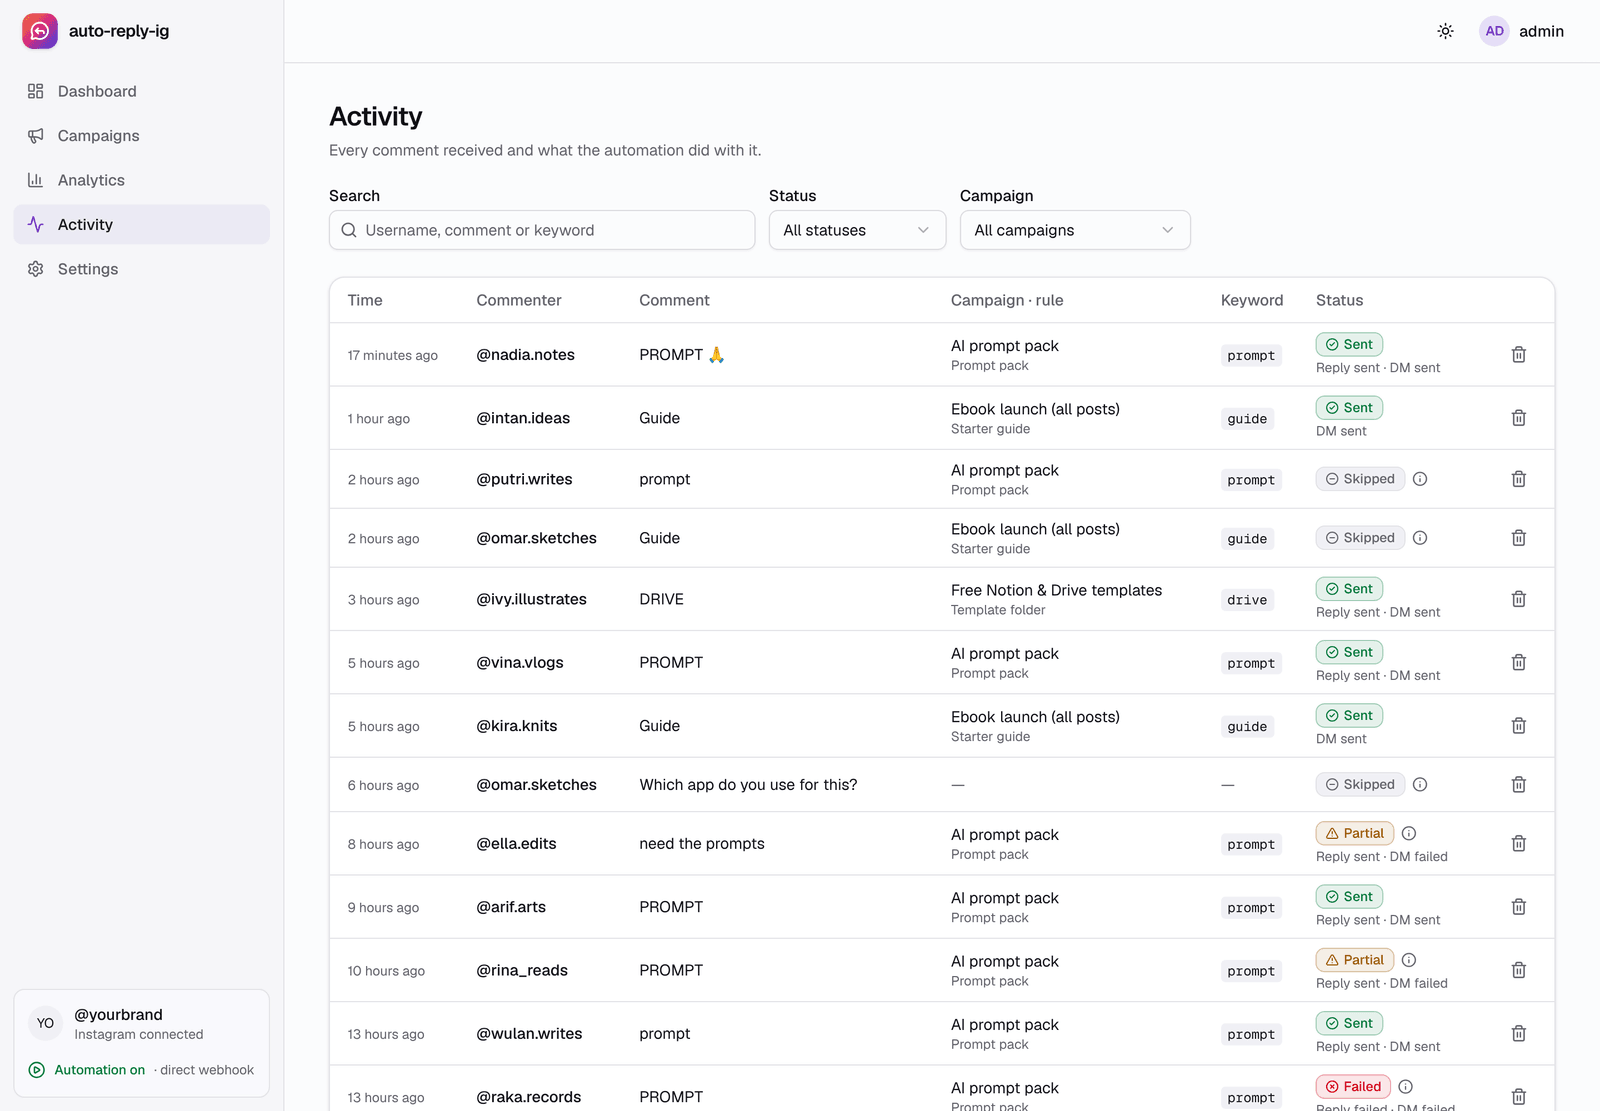
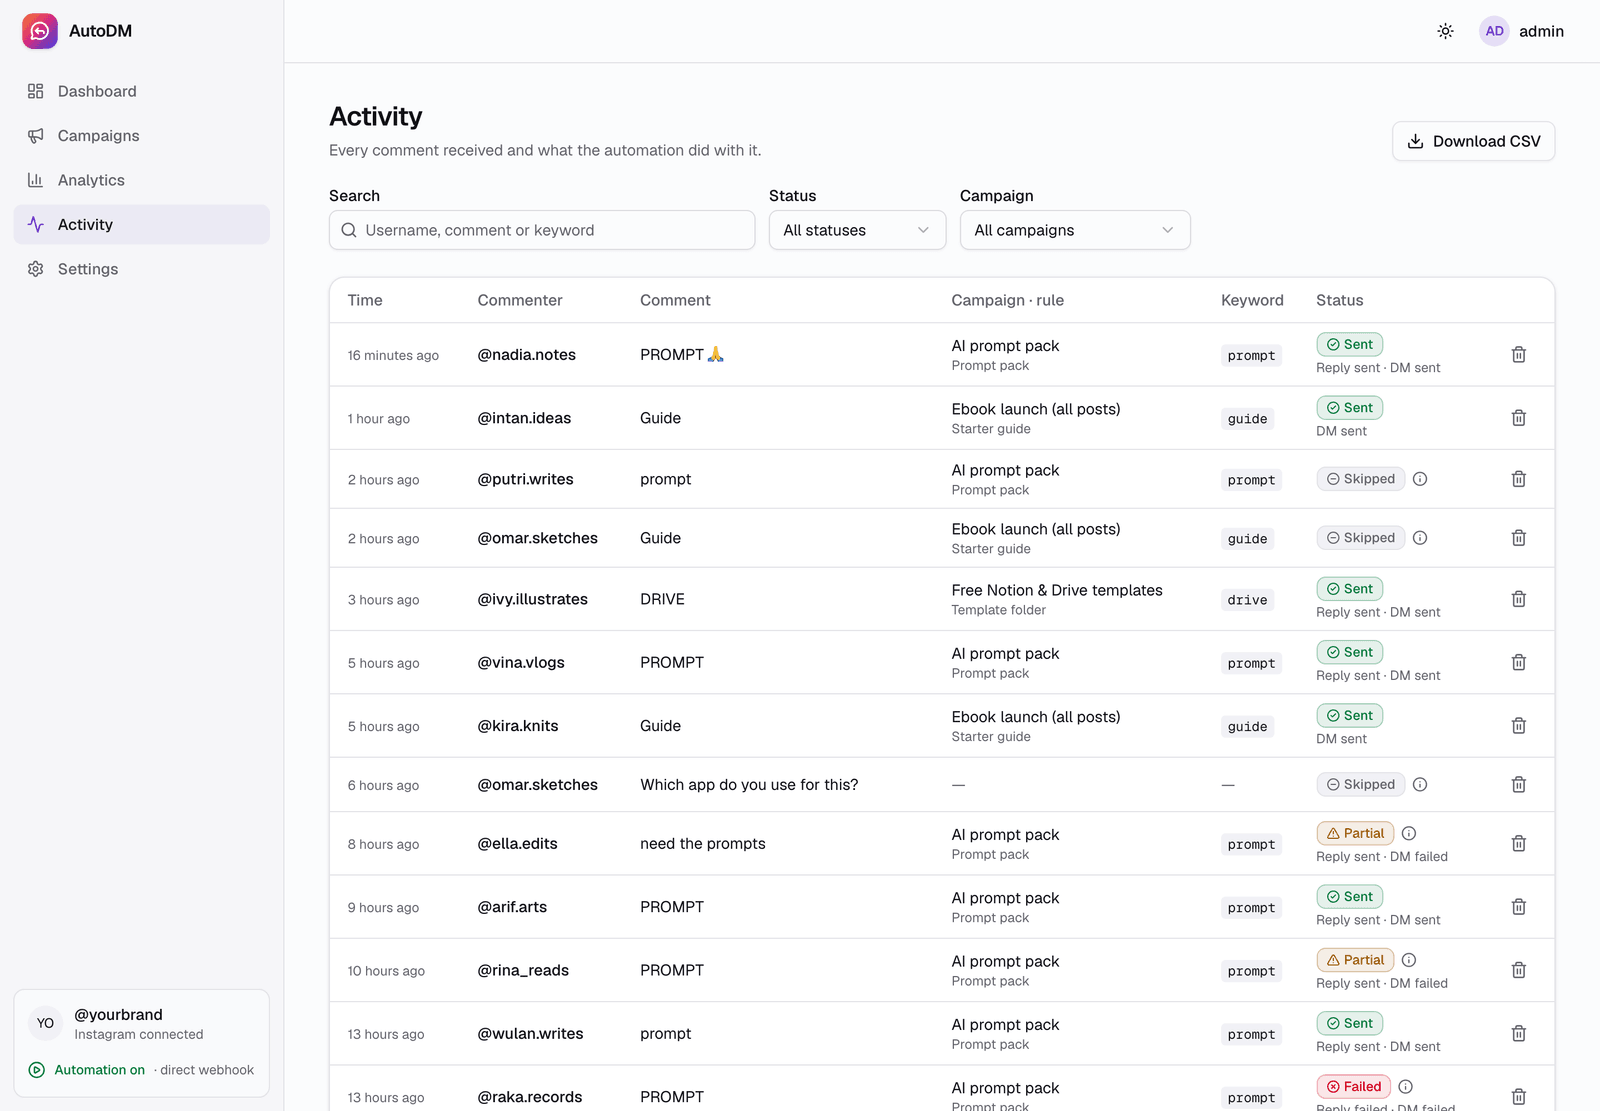
docs: retake README screenshots with the AutoDM name (#82)
* docs: retake README screenshots with the AutoDM name

Add scripts/demo/screenshots.ts (pnpm demo:screenshots, Playwright) so the
screenshots can be regenerated with one command.

* style: format the screenshot script with prettier

---------

diff --git a/scripts/demo/screenshots.ts b/scripts/demo/screenshots.ts
@@ -1,0 +1,135 @@
+/**
+ * Retakes the README screenshots in docs/assets/screenshots/ from a running app that uses the demo
+ * database (see "Demo data for screenshots" in docs/development.md):
+ *
+ *   SCREENSHOT_BASE_URL=http://localhost:3000 pnpm demo:screenshots
+ *
+ * Env: SCREENSHOT_BASE_URL (default http://localhost:3000), DEMO_PASSWORD (default demo-password-2026).
+ * Pages are captured at 1440px wide (390px for mobile) with deviceScaleFactor 2, light theme except
+ * dashboard-dark, then downscaled to 1600px wide (780px for mobile) and saved as palette PNG.
+ */
+import { mkdirSync, writeFileSync } from "node:fs";
+import { createRequire } from "node:module";
+import { dirname, join } from "node:path";
+import { fileURLToPath } from "node:url";
+import { chromium, type Page } from "playwright";
+
+/** The small slice of sharp's API this script uses (sharp ships with Next, see scripts/brand/banner.tsx). */
+type SharpPipeline = {
+  resize(width: number): SharpPipeline;
+  png(options: {
+    compressionLevel: number;
+    palette?: boolean;
+    quality?: number;
+    dither?: number;
+  }): SharpPipeline;
+  toBuffer(): Promise<Buffer>;
+};
+type SharpFactory = (input: Buffer) => SharpPipeline;
+
+const ROOT = join(dirname(fileURLToPath(import.meta.url)), "..", "..");
+const OUT = join(ROOT, "docs", "assets", "screenshots");
+const requireFromNext = createRequire(createRequire(import.meta.url).resolve("next/package.json"));
+const sharp = requireFromNext("sharp") as SharpFactory;
+
+const BASE = (process.env.SCREENSHOT_BASE_URL ?? "http://localhost:3000").replace(/\/$/, "");
+const PASSWORD = process.env.DEMO_PASSWORD ?? "demo-password-2026";
+
+type Shot = {
+  name: string;
+  path: string;
+  width: number;
+  height: number;
+  outWidth: number;
+  theme?: "light" | "dark";
+  auth?: boolean;
+  prepare?: (page: Page) => Promise<void>;
+};
+
+const SHOTS: Shot[] = [
+  { name: "landing", path: "/", width: 1440, height: 900, outWidth: 1600, auth: false },
+  { name: "dashboard-light", path: "/dashboard", width: 1440, height: 1290, outWidth: 1600 },
+  { name: "dashboard-dark", path: "/dashboard", width: 1440, height: 1290, outWidth: 1600, theme: "dark" },
+  { name: "dashboard-mobile", path: "/dashboard", width: 390, height: 844, outWidth: 780 },
+  { name: "activity", path: "/activity", width: 1440, height: 1000, outWidth: 1600 },
+  { name: "analytics", path: "/analytics", width: 1440, height: 1050, outWidth: 1600 },
+  {
+    name: "campaign-rule-editor",
+    path: "/campaigns",
+    width: 1440,
+    height: 1290,
+    outWidth: 1600,
+    prepare: async (page) => {
+      await page
+        .getByRole("link", { name: /Free Notion & Drive templates/ })
+        .first()
+        .click();
+      await page.waitForURL(/\/campaigns\/[^/]+$/);
+      await page.getByRole("button", { name: "Edit" }).first().click();
+      await page.getByText("Edit “Template folder”").waitFor();
+    },
+  },
+  {
+    name: "settings-instagram",
+    path: "/settings",
+    width: 1440,
+    height: 1100,
+    outWidth: 1600,
+    prepare: async (page) => {
+      await page.getByRole("tab", { name: "Instagram" }).click();
+      await page.getByText("Meta app").first().waitFor();
+    },
+  },
+];
+
+async function main() {
+  mkdirSync(OUT, { recursive: true });
+  const browser = await chromium.launch();
+  try {
+    for (const shot of SHOTS) {
+      const theme = shot.theme ?? "light";
+      const context = await browser.newContext({
+        viewport: { width: shot.width, height: shot.height },
+        deviceScaleFactor: 2,
+        colorScheme: theme,
+        reducedMotion: "reduce",
+      });
+      await context.addInitScript((t) => {
+        try {
+          localStorage.setItem("theme", t);
+        } catch {
+          /* storage unavailable */
+        }
+      }, theme);
+      const page = await context.newPage();
+      if (shot.auth !== false) {
+        await page.goto(`${BASE}/login`);
+        await page.locator("#username").fill("admin");
+        await page.locator("#password").fill(PASSWORD);
+        await page.getByRole("button", { name: /sign in|log in/i }).click();
+        await page.waitForURL((u) => !u.pathname.startsWith("/login"));
+      }
+      await page.goto(`${BASE}${shot.path}`);
+      await page.waitForLoadState("networkidle");
+      await shot.prepare?.(page);
+      await page.evaluate(() => (document.activeElement as HTMLElement | null)?.blur());
+      await page.mouse.move(0, 0);
+      await page.waitForTimeout(800);
+      const png = await page.screenshot();
+      const out = await sharp(png)
+        .resize(shot.outWidth)
+        .png({ compressionLevel: 9, palette: true, quality: 90, dither: 0.5 })
+        .toBuffer();
+      writeFileSync(join(OUT, `${shot.name}.png`), out);
+      console.log(`${shot.name}.png  ${(out.length / 1024).toFixed(0)} KB`);
+      await context.close();
+    }
+  } finally {
+    await browser.close();
+  }
+}
+
+main().catch((err) => {
+  console.error(err instanceof Error ? err.message : err);
+  process.exit(1);
+});

diff --git a/docs/development.md b/docs/development.md
@@ -53,8 +53,16 @@ pnpm db:migrate && pnpm demo:seed
 APP_URL=https://autodm.example.com pnpm build && pnpm start   # log in as admin / demo-password-2026
 ```
 
-Capture at 1440px wide (390px for mobile) with `deviceScaleFactor: 2`, downscale to 1600px wide and
-save as palette PNG (sharp, as in `scripts/brand/banner.tsx`) to keep each file around 100 KB.
+Then retake all eight screenshots with one command (Playwright, Chromium must be installed:
+`pnpm exec playwright install chromium`):
+
+```bash
+SCREENSHOT_BASE_URL=http://localhost:3000 pnpm demo:screenshots
+```
+
+`scripts/demo/screenshots.ts` logs in as `admin` (override the password with `DEMO_PASSWORD`), captures at
+1440px wide (390px for mobile) with `deviceScaleFactor: 2`, light theme except `dashboard-dark`, downscales to
+1600px wide and saves palette PNGs (sharp, as in `scripts/brand/banner.tsx`) to keep each file around 100 KB.
 
 ## Testing
 
